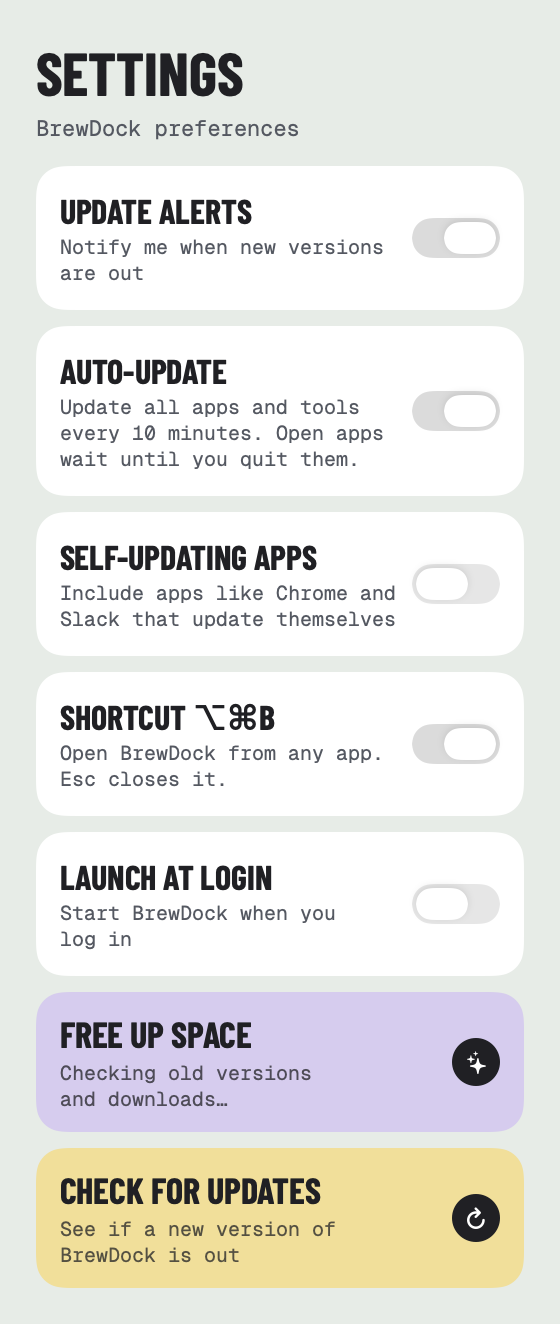
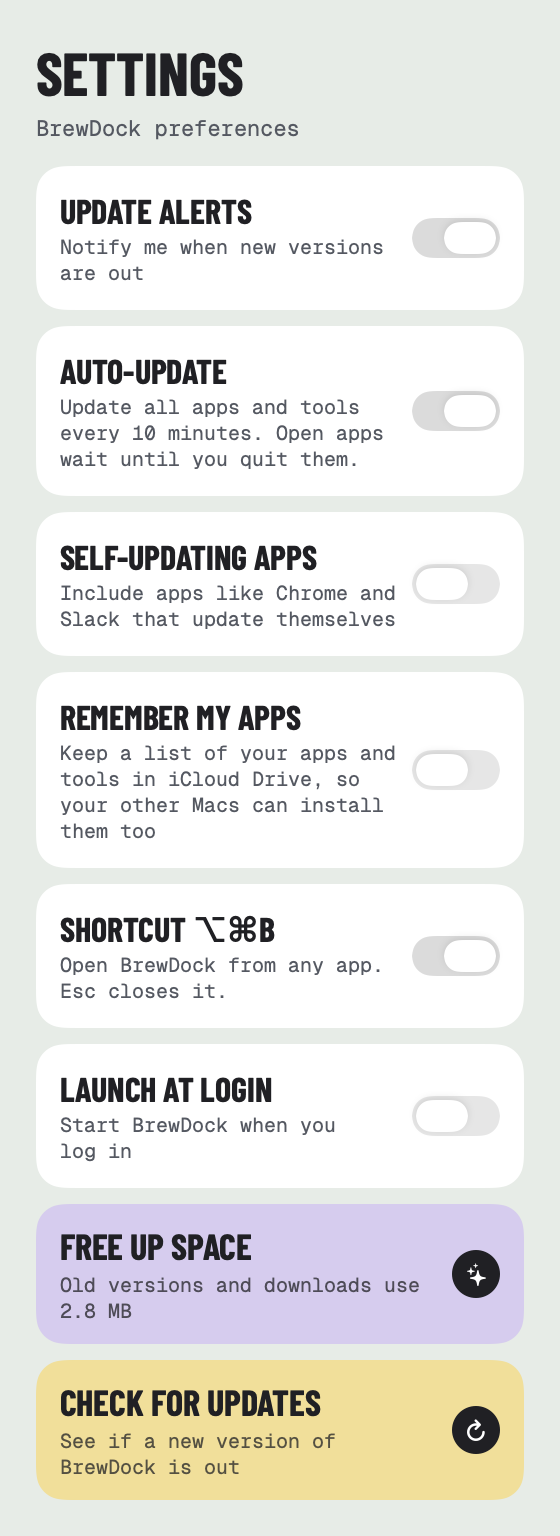
README: Settings screenshot with Remember my apps

diff --git a/README.md b/README.md
@@ -102,7 +102,7 @@ BrewDock checks for new versions of itself. Open **Settings → Check for update
     <td align="center"><img src="docs/discover.png" alt="Discover tab: curated apps with install buttons" width="190"><br><sub><b>Discover</b></sub></td>
   </tr>
   <tr>
-    <td align="center"><img src="docs/settings.png" alt="Settings: launch at login, update alerts, auto-update, self-updating apps, shortcut, free up space" width="150"><br><sub><b>Settings</b></sub></td>
+    <td align="center"><img src="docs/settings.png" alt="Settings: update alerts, auto-update, self-updating apps, remember my apps, shortcut, launch at login, free up space" width="150"><br><sub><b>Settings</b></sub></td>
     <td align="center"><img src="docs/brewfile.png" alt="Brewfile: export, install, what's missing, remove unlisted" width="150"><br><sub><b>Brewfile</b></sub></td>
     <td align="center"><img src="docs/screenshot-dark.png" alt="BrewDock in dark mode" width="190"><br><sub><b>Dark mode</b></sub></td>
   </tr>
